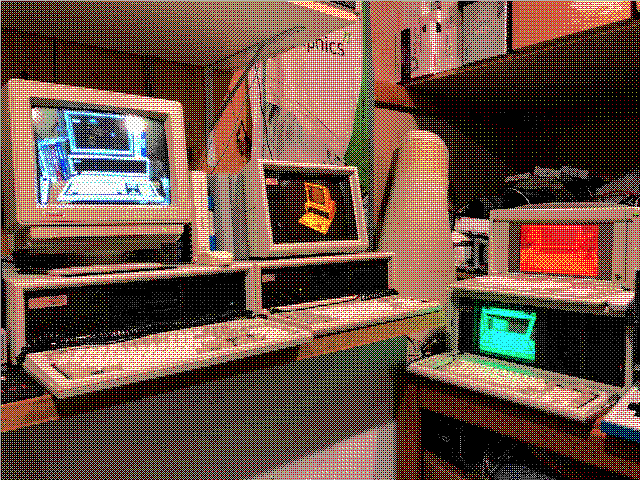
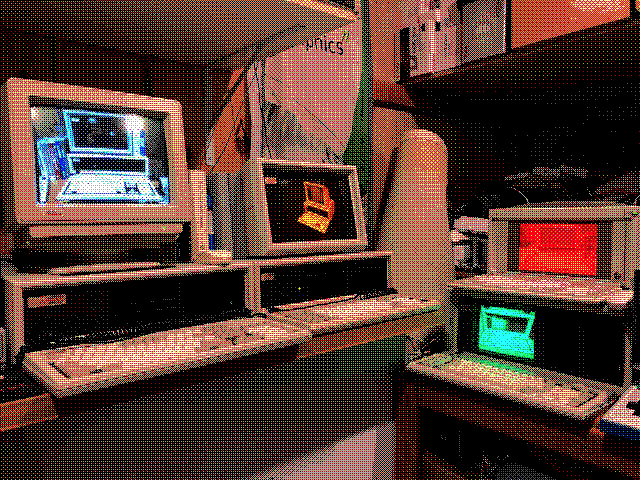
Update gamma settings for photo images

diff --git a/README.md b/README.md
@@ -114,7 +114,7 @@ Color Bars #1
 
 ![Original Color Bars](https://github.com/dschmenk/DITHER16/blob/master/images/bars1.jpg)
 ![Dithered Color Bars](https://github.com/dschmenk/DITHER16/blob/master/images/bars1.png)
-Update:
+Update (gamma 1.25):
 ![Dithered Color Bars](https://github.com/dschmenk/DITHER16/blob/master/images/bars1.a.png)
 
 
@@ -122,19 +122,19 @@ Color Bars #2
 
 ![Original Color Bars](https://github.com/dschmenk/DITHER16/blob/master/images/bars2.jpg)
 ![Dithered Color Bars](https://github.com/dschmenk/DITHER16/blob/master/images/bars2.png)
-Update:
+Update (gamma 1.25):
 ![Dithered Color Bars](https://github.com/dschmenk/DITHER16/blob/master/images/bars2.a.png)
 
 Compaq Computers
 
 ![Original Color Bars](https://github.com/dschmenk/DITHER16/blob/master/images/compaqs.jpg)
 ![Dithered Color Bars](https://github.com/dschmenk/DITHER16/blob/master/images/compaqs.png)
-Update:
+Update (gamma 1.75):
 ![Dithered Color Bars](https://github.com/dschmenk/DITHER16/blob/master/images/compaqs.a.png)
 
 Race Car
 
 ![Original Color Bars](https://github.com/dschmenk/DITHER16/blob/master/images/racecar.jpg)
 ![Dithered Color Bars](https://github.com/dschmenk/DITHER16/blob/master/images/racecar.png)
-Update:
+Update (gamma 1.75):
 ![Dithered Color Bars](https://github.com/dschmenk/DITHER16/blob/master/images/racecar.a.png)
